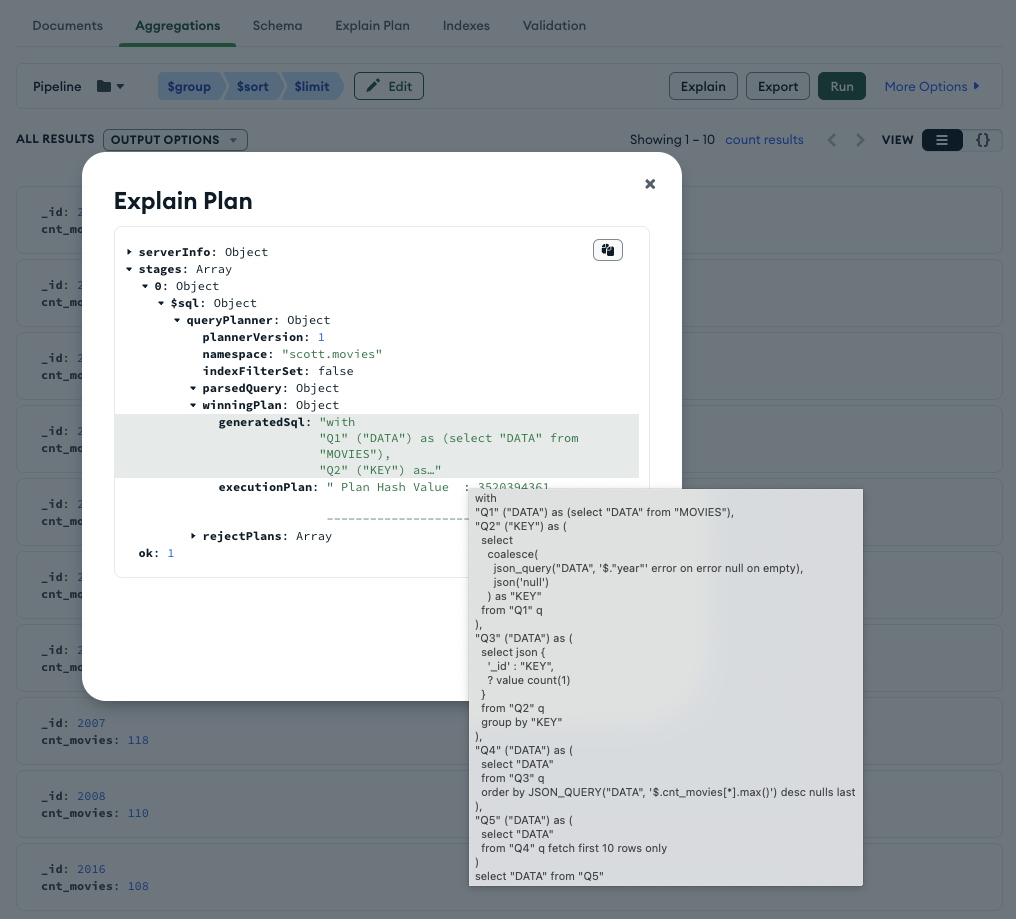
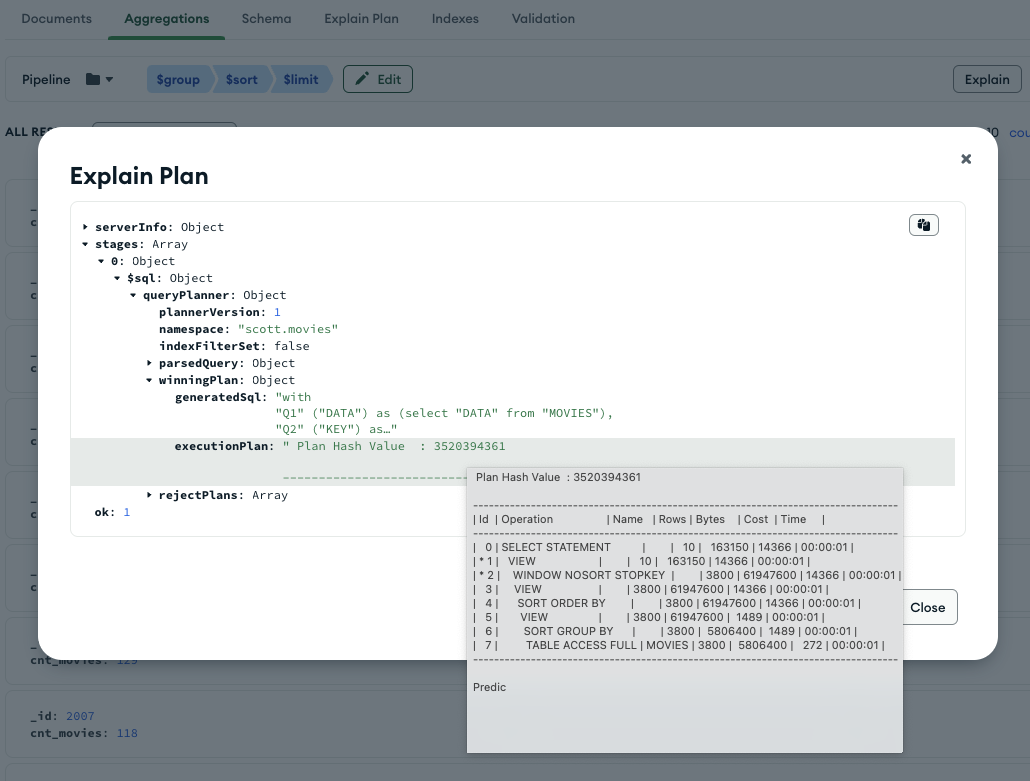
Cleanup and additional screenshots
Text cleanup and more screenshots for explain plan and mongo shell

diff --git a/json/mongodb-api/dbactions/dbactions-ocw23.md b/json/mongodb-api/dbactions/dbactions-ocw23.md
@@ -95,11 +95,9 @@ The data is stored in a single location - the Oracle database - and transactiona
 
 ## Task 2: Use Mongo Compass to build an aggregation pipeline
 
-With Oracle MongoDB API in the newest ORDS and Oracle Database 23c, the compatibility of Oracle MongoDB API and MongoDB have significantly increased. The two major enhancements are:
-- Support for Aggregation Pipelines
-- Transparent index creation through MongoDB APIs
+With Oracle MongoDB API in the newest ORDS and Oracle Database 23c, the compatibility of Oracle MongoDB API and MongoDB have significantly increased. The most notable enhancement is the support for Aggregation Pipelines. 
 
-The following section will illustrate the aggregation pipeline functionality and give a view under the hood of how you use the power of Oracle's database JSON processing capabilities to speed up MongoDB requests.
+The following lab will focus on aggregation pipelines, illustrate its functionality and give a view under the hood of how you use the power of Oracle's database JSON processing capabilities to speed up MongoDB requests.
 
 1. Let's install Mongo Compass to use Mongo's UI for creating an aggregation pipeline. This step is optional, you can decide to do the following exercises in Mongo Shell. While the workshop will focus on Compass, it will provide the code for command line as well.
 
@@ -112,7 +110,7 @@ The following section will illustrate the aggregation pipeline functionality and
     </copy>
     ```
 
-	![Installation of Mongo Compass](./images/mongo-compass-install.png)  **HB: needs to be created after publication of LL**
+	![Installation of Mongo Compass](./images/mongo-compass-install.png)  _**HB: screenshot to be made after publication of LL**_
 
 2. Start Mongo Compass and connect with your MongoDB connect string. 
 
@@ -181,17 +179,24 @@ The following section will illustrate the aggregation pipeline functionality and
     ```
     ![Mongo Compass - second stage code](./images/mongo-agg-stage2b.png)
 
-    Last but not least, we only want to return the top ten years. We do this with the **$limit** expression:
+    Last but not least, we only want to return the top ten years. We nned to add another stage using the **$limit** expression. Please select this expression and enter the number 10 to only get the top 10:
 
     ![Mongo Compass - build third stage](./images/mongo-agg-stage3.png)
 
-    You can now run your aggregation pipeline and see the results. Press the green 'Run' button:
+    You can now run your aggregation pipeline and see the results within Mongo Compass. Press the green 'Run' button:
 
     ![Mongo Compass - run aggregation](./images/mongo-agg-output.png)
 
-    Oracle execution plan:
+    Oracle is mapping the aggregation pipeline stages into Oracle SQL to formulate the equivalent operation using SQL and SQL/JSON. For the example aggregation pipeline we just built we can see the execution planby pressing the 'Explain' button and traversing down to the 'winningPlan' attribute:
+
+    ![Mongo Compass - sql stmt](./images/mongo-agg-sql.png)
+
+    You can also see the execution plan in this information:
 
     ![Mongo Compass - execution plan](./images/mongo-agg-exec-plan.png)
+
+
+    While this is a rather simple SQL statement, this is the point where Oracle uses the power of its SQL engine and the Oracle Optimizer to find the most optimal execution plan for processing the request.
 
     To run the same aggregation pipeline in mongoshell, copy the following code snippet:
     ```
@@ -210,16 +215,34 @@ The following section will illustrate the aggregation pipeline functionality and
         ]);
 </copy>
     ```
-## Task 3: Speed up your data access in MongoDB using indexes
+    ![Mongoshell - agg pipeline](./images/mongosh-agg.png)
 
-- we want to show indexes and an explain plan in Mongo to talk about the Mongo-to-SQL translation. Ideally the indexes are created with Mongoshell and not in SDW. That is TBD, based on the implementation
+    You can also see the SQL statement and execution plan in mongoshell:
+    ```
+    <copy>
+    db.movies.aggregate( 
+        [ { $group: 
+            { "_id": "$year" , 
+              "cnt_movies": 
+                   { $count: {} }
+            }
+          }, 
+          { $sort: 
+            { "cnt_movies": -1 } 
+          }, 
+          { $limit: 10}
+        ]).explain();
+</copy>
+    ```
+    ![Mongoshell - execution plan](./images/mongosh-agg-explain.png)
+    
 
-
-
-
+There's more to cover for the Oracle Database API for MongoDB that goes beyond this introductory lab. Stay tuned for more and check out the link below to learn more.
 ## Learn More
 
 * [Oracle Database API for MongoDB](https://blogs.oracle.com/database/post/mongodb-api)
+* [Oracle Database API for MongoDB - Documentation](https://docs.oracle.com/en/database/oracle/mongodb-api/index.html)
+* [Oracle Database API for MongoDB - YouTube](https://www.youtube.com/watch?v=EVDn4b6u628&ab_channel=Oracle)
 
 ## Acknowledgements
 
